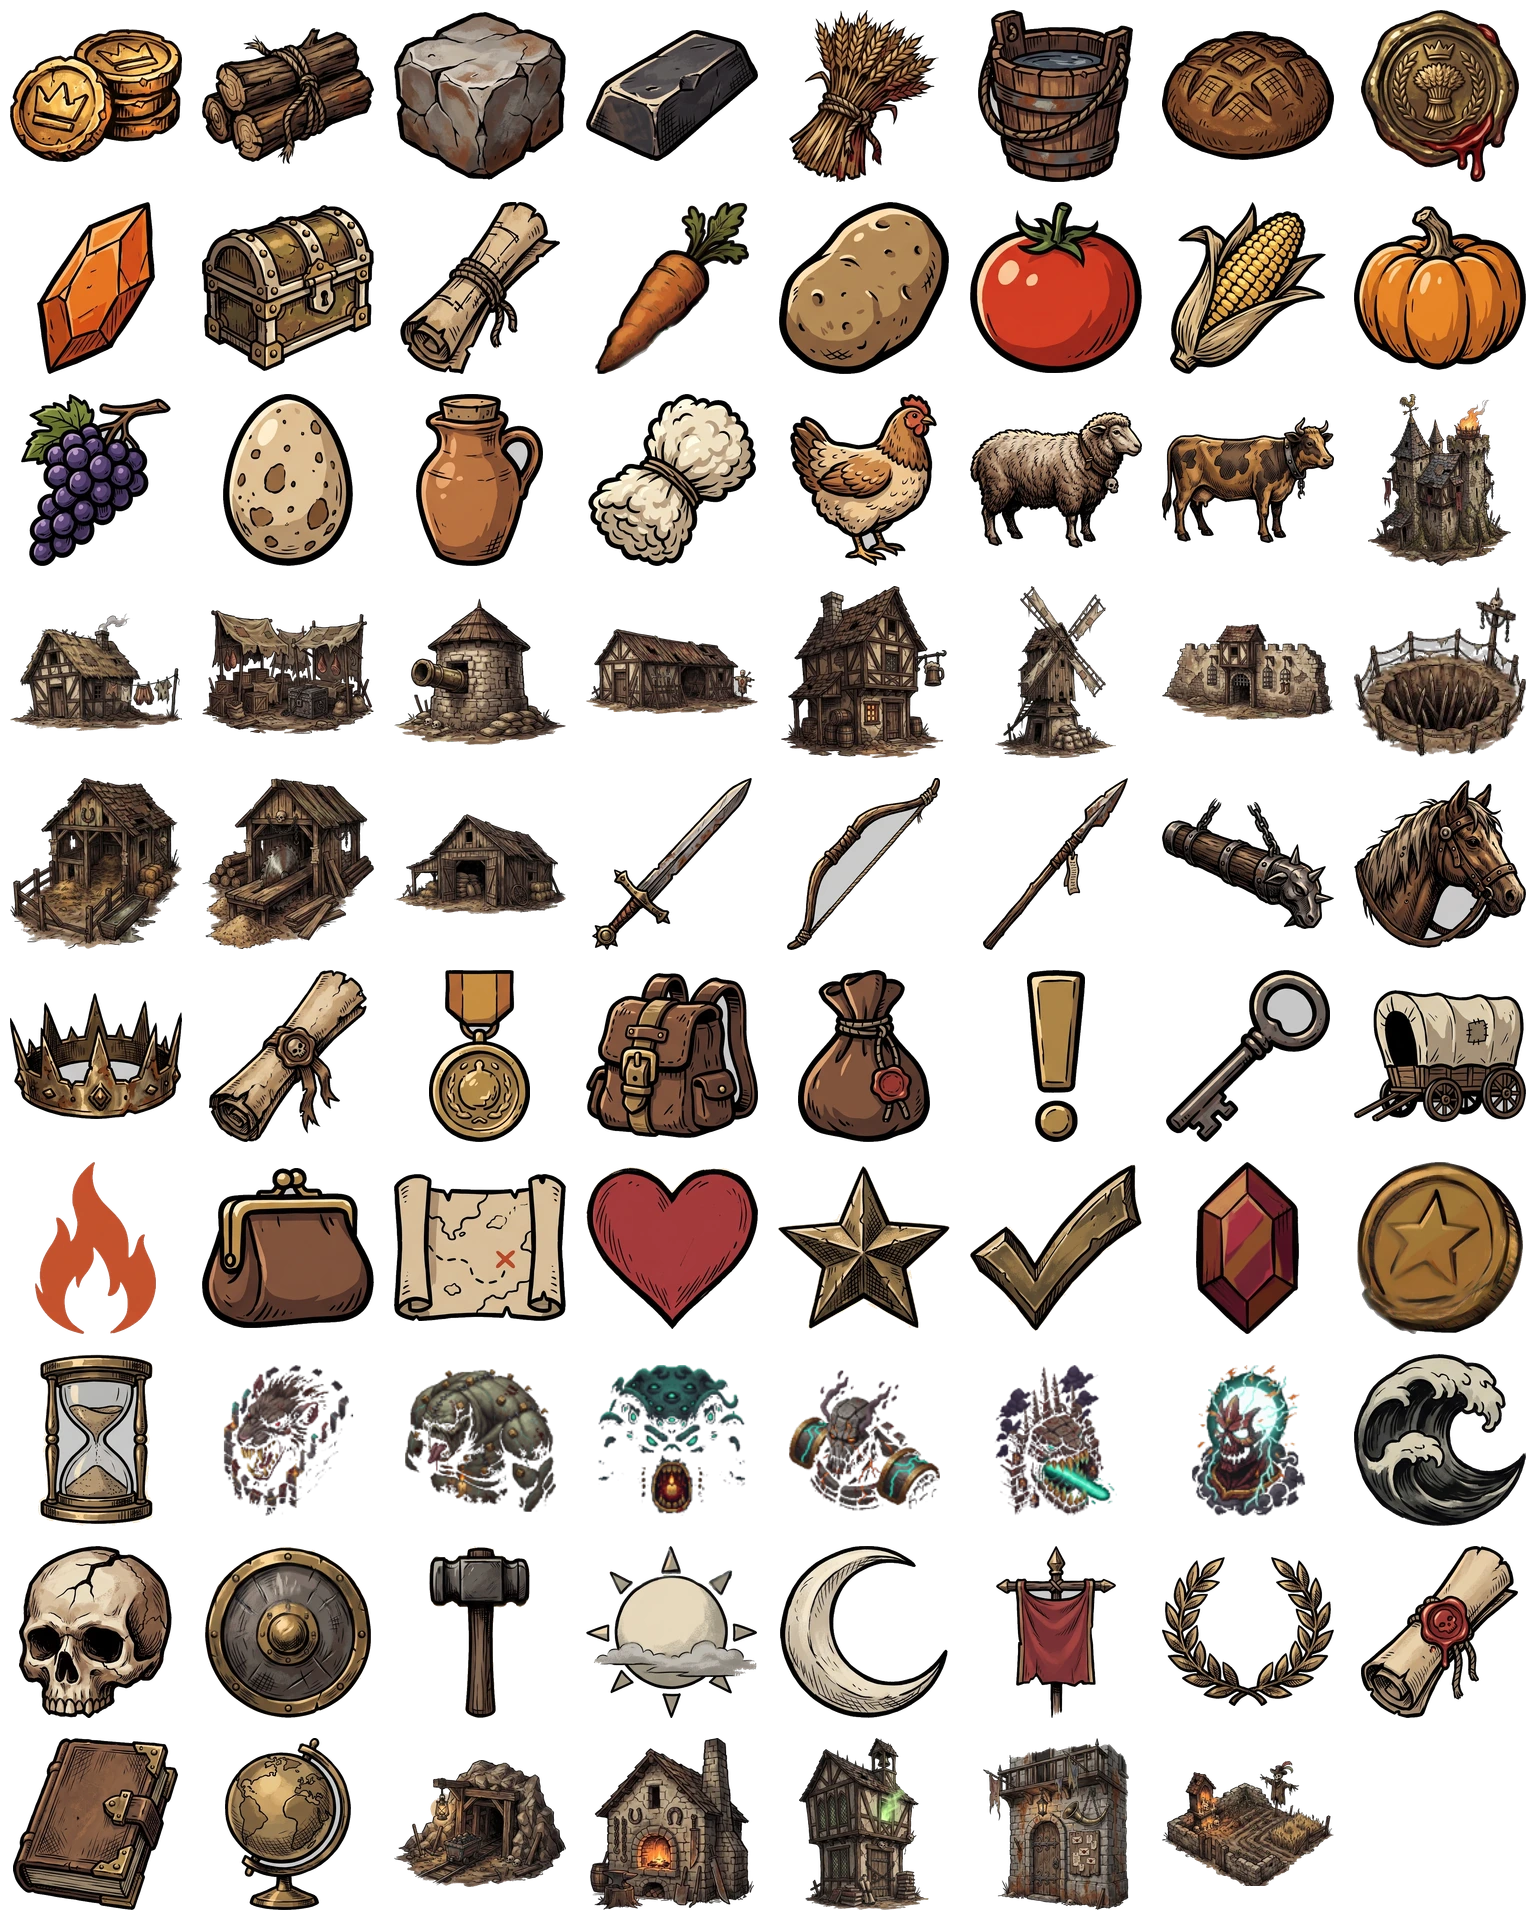
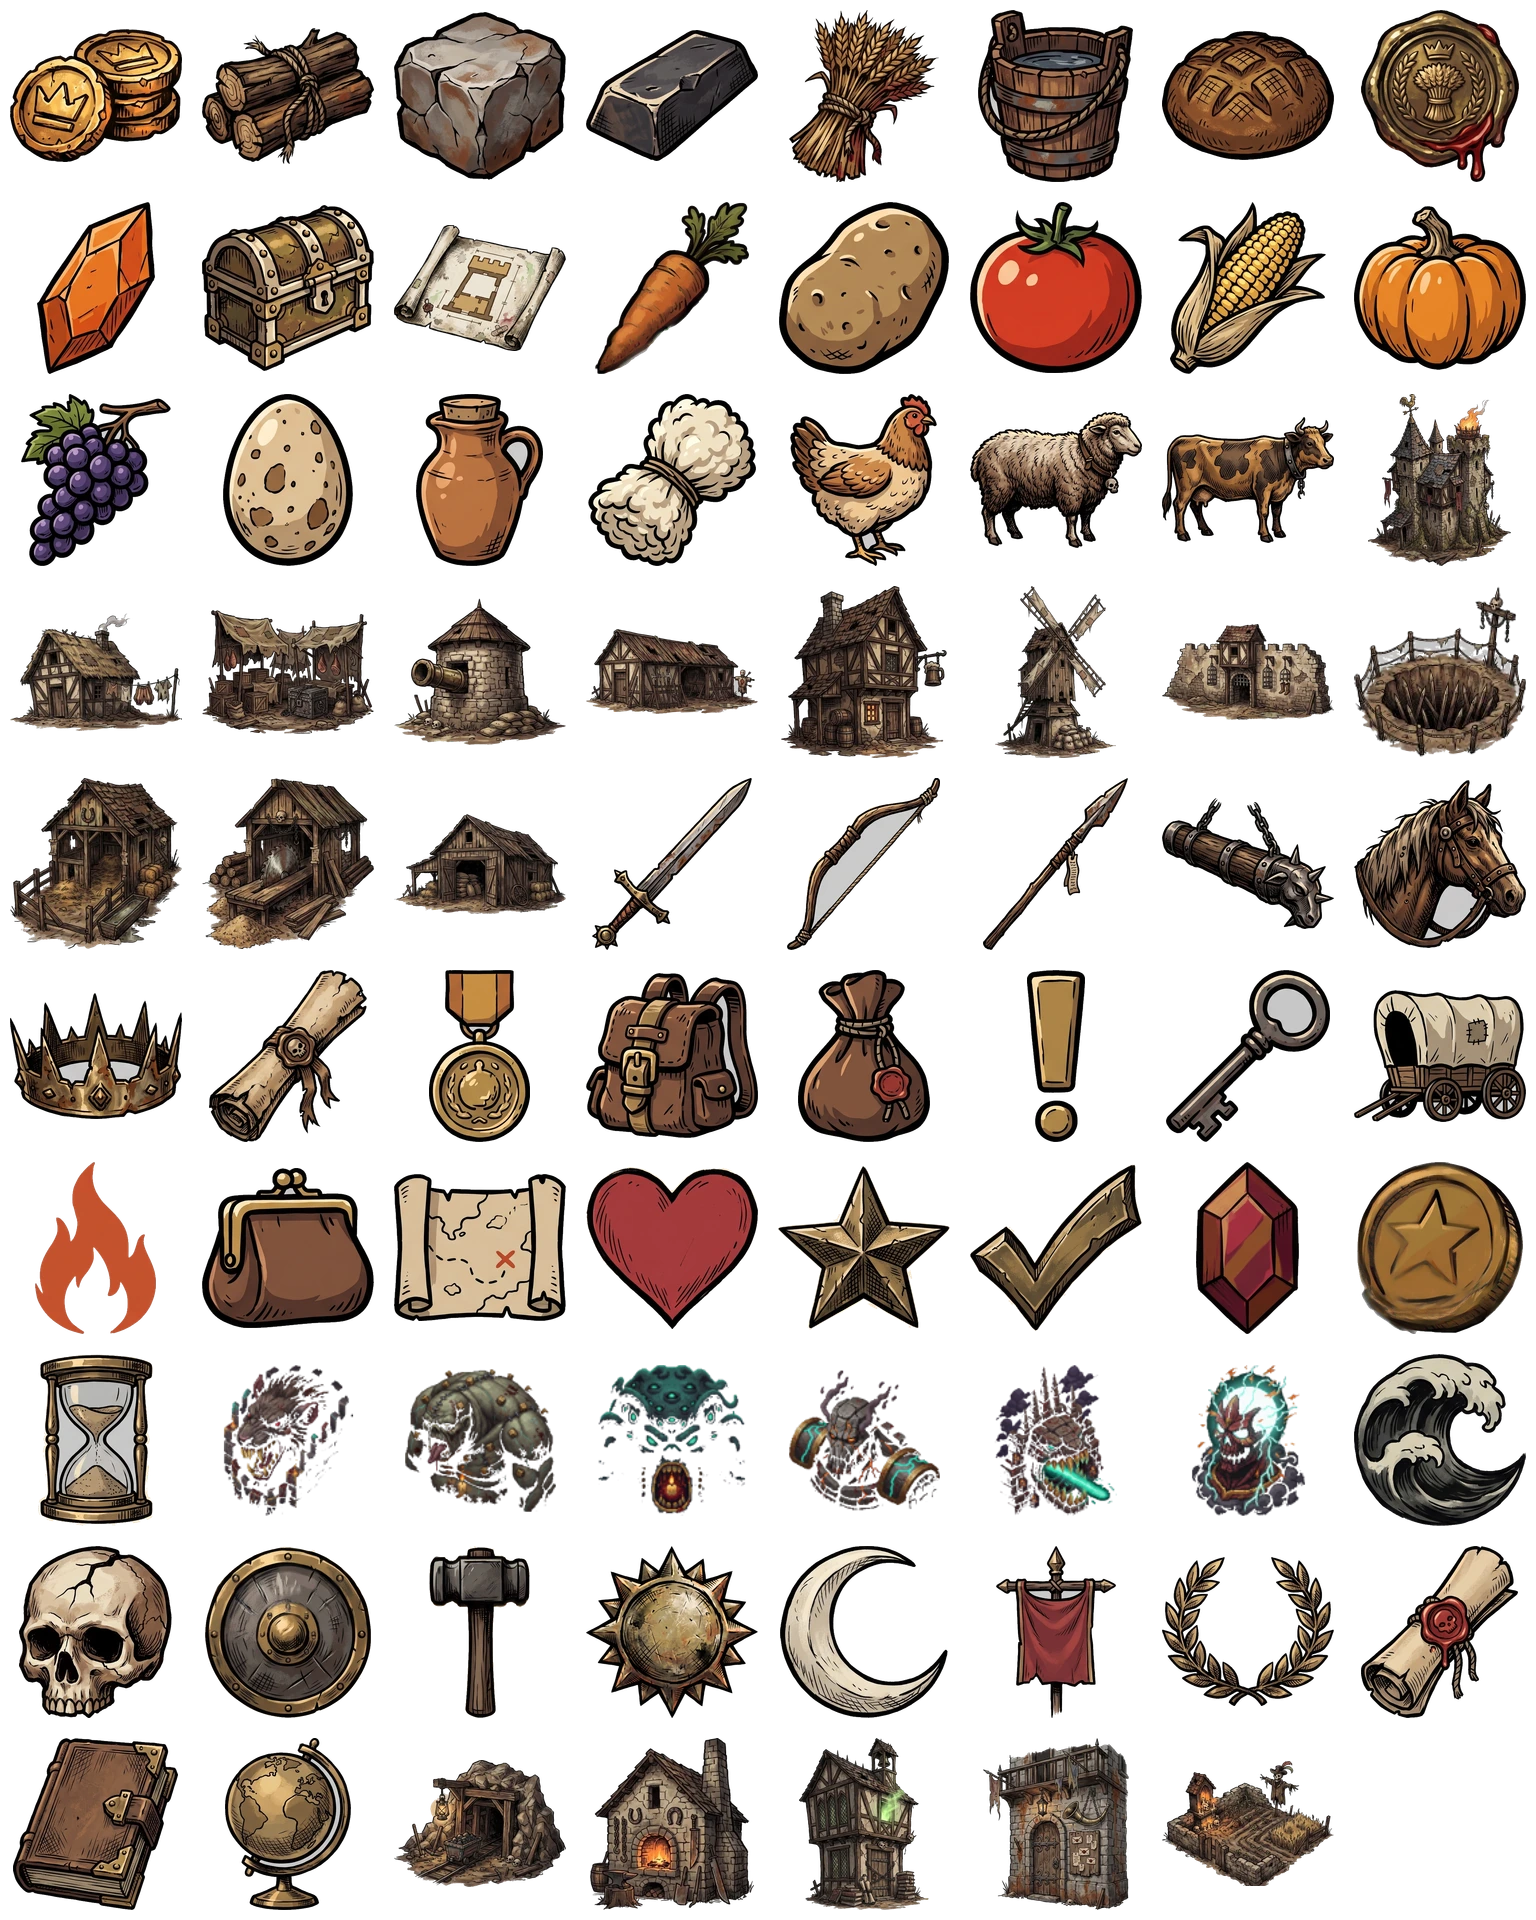
fix(ui_kit_b): regenerar íconos blueprint y sun (T22)

Changed region(s): [[0.25, 0.0938, 0.375, 0.2188], [0.375, 0.8125, 0.5, 0.9062]]

diff --git a/scripts/process_icon_sheets.js b/scripts/process_icon_sheets.js
@@ -4,6 +4,7 @@
  * pasa a celdas transparentes de 192 px (llave de color por flood-fill desde el borde de cada celda).
  *
  *   node scripts/process_icon_sheets.js [--tol 44] [--glyph 172]
+ *   node scripts/process_icon_sheets.js --single <nombre> <art-b/uikit/raw/x.png>   (un objeto por imagen)
  *
  * Lee  art-b/uikit/icon_sheets.json  { sheets: {id: [9 nombres|null]}, reuse: {id: {nombre: celda1..9}} }
  *      art-b/uikit/raw/<id>.png        (crudos, ignorados por git)
@@ -90,9 +91,9 @@ function cutout(data, w, h) {
   };
 }
 
-async function processCell(file, col, row, name, report) {
+async function processCell(file, col, row, name, report, div = 3) {
   const meta = await sharp(file).metadata();
-  const cw = Math.floor(meta.width / 3), ch = Math.floor(meta.height / 3);
+  const cw = Math.floor(meta.width / div), ch = Math.floor(meta.height / div);
   const { data, info } = await sharp(file).extract({ left: col * cw, top: row * ch, width: cw, height: ch })
     .ensureAlpha().raw().toBuffer({ resolveWithObject: true });
   const r = cutout(data, info.width, info.height);
@@ -109,6 +110,16 @@ async function processCell(file, col, row, name, report) {
 
 (async () => {
   fs.mkdirSync(OUT, { recursive: true });
+  const si = process.argv.indexOf('--single');
+  if (si > 0) {
+    // Un solo objeto por imagen (gen_art_b --kind prop): toda la imagen es la «celda».
+    // No toca las demás celdas ni report.json.
+    const name = process.argv[si + 1], file = path.resolve(ROOT, process.argv[si + 2]);
+    const report = {};
+    await processCell(file, 0, 0, name, report, 1);
+    console.log(JSON.stringify(report[name]));
+    return;
+  }
   const cfg = JSON.parse(fs.readFileSync(path.join(UIKIT, 'icon_sheets.json'), 'utf8'));
   const report = {};
   for (const [id, names] of Object.entries(cfg.sheets)) {

diff --git a/scripts/icon_contact_sheet.js b/scripts/icon_contact_sheet.js
@@ -5,7 +5,7 @@
  *
  *   node scripts/icon_contact_sheet.js [--sheet client/public/assets/b/ui/icons.webp]
  *        [--config art-b/uikit/candidate/grimIconSheet.generated.js]
- *        [--out specs/ui_kit_b/evidencia/iconos_contacto.webp] [--cols 6]
+ *        [--out specs/ui_kit_b/evidencia/iconos_contacto.webp] [--cols 6] [--only nombre1,nombre2]
  *
  * Requiere NODE_PATH al node_modules con playwright y sharp (repo principal).
  * El config se lee como texto (es ESM generado); no se importa.
@@ -29,7 +29,9 @@ const SIZES = [24, 32, 48];
   const cfg = fs.readFileSync(CONFIG, 'utf8');
   const num = (k) => Number(new RegExp(`${k} = (\\d+)`).exec(cfg)[1]);
   const W = num('GRIM_SHEET_W'), H = num('GRIM_SHEET_H'), CELL = num('GRIM_CELL');
-  const icons = [...cfg.matchAll(/^\s+([a-z_]+): \{ col: (\d+), row: (\d+) \},/gm)].map((m) => ({ name: m[1], col: +m[2], row: +m[3] }));
+  const only = arg('only', null);
+  const icons = [...cfg.matchAll(/^\s+([a-z_]+): \{ col: (\d+), row: (\d+) \},/gm)].map((m) => ({ name: m[1], col: +m[2], row: +m[3] }))
+    .filter((ic) => !only || only.split(',').includes(ic.name));
   const url = pathToFileURL(SHEET).href;
   const cell = (ic, s) => `<span class="i" style="width:${s}px;height:${s}px;background:url(${url}) ${-ic.col * s}px ${-ic.row * s}px/${(W / CELL) * s}px ${(H / CELL) * s}px no-repeat"></span>`;
   const figs = icons.map((ic) => `<figure><div class="r">${SIZES.map((s) => cell(ic, s)).join('')}</div><figcaption>${ic.name}</figcaption></figure>`).join('');

diff --git a/specs/ui_kit_b/tasks.md b/specs/ui_kit_b/tasks.md
@@ -35,7 +35,7 @@
 - [x] T19 — `scripts/crop_building_icons.js`: recorte de 17 edificios desde `assets/b/buildings/*.webp` a celdas de 192 px. Cubre: R41. Evidencia: 17 recortes a 192 px (`evidencia/crop_edificios.txt`); `manifest.json` sin entradas de edificios (grep `castle|throne_room` = 0).
 - [x] T20 — Entradas en `art-b/uikit/manifest.json` (plantilla `icon_test_b_bold` + reglas §6.1), generación con `scripts/gen_art_b.js` y proceso por grilla/llave de color; reaprovechar las hojas de prueba si cumplen. **Requiere autorización del owner y `GEMINI_API_KEY` (design §11-Q4).** Cubre: R44, R45. Evidencia: 6 hojas `icon_b_01..06` generadas con `gen_art_b.js` (54 celdas) + reaprovechadas de `icon_test_b_bold` (gold, wheat, wood, stone, kh_token); `scripts/process_icon_sheets.js` + `art-b/uikit/icon_sheets.json`; QA numérico en `evidencia/process_iconos.txt` (1 aviso: `sun`, 8 componentes por rayos sueltos). Falta el visto bueno visual de p-kh (T22).
 - [x] T21 — Reescribir `scripts/assemble_icon_sheet.js` (celda 192, 8 columnas, salida `client/public/assets/b/ui/icons.webp` + `grimIconSheet.generated.js` candidato **fuera** de `client/src/config` hasta la aprobación) y generar `evidencia/iconos_contacto.webp` (24/32/48 px sobre `kh-oak`). Cubre: R38, R42. Evidencia: `client/public/assets/b/ui/icons.webp` 1536×1920 (79 íconos, 8 col × 10 filas, 892 KB) + candidato `art-b/uikit/candidate/grimIconSheet.generated.js` (orden de los 65 contrato idéntico a `ab85126`; `client/src/config` NO tocado, R43) (`evidencia/assemble.txt`); `evidencia/iconos_contacto.webp` 924×1260 vía `scripts/icon_contact_sheet.js` (`evidencia/contacto.txt`).
-- [ ] T22 — ⏸ **Puerta de arte p-kh**: revisar `iconos_contacto.webp` y registrar `evidencia/aprobacion_arte.md` (fecha, autor `p-kh`, veredicto `APROBADO`, lista de regeneraciones si no). Sin esto no se pasa a C2. Cubre: R43, R44. Estado: 1.ª revisión 2026-10-21 → `REGENERAR` `blueprint` y `sun` (los 77 restantes aprobados; condición de uso: edificios ≥ 40 px con nombre), ver `evidencia/aprobacion_arte.md`.
+- [ ] T22 — ⏸ **Puerta de arte p-kh**: revisar `iconos_contacto.webp` y registrar `evidencia/aprobacion_arte.md` (fecha, autor `p-kh`, veredicto `APROBADO`, lista de regeneraciones si no). Sin esto no se pasa a C2. Cubre: R43, R44. Estado: 1.ª revisión 2026-10-21 → `REGENERAR` `blueprint` y `sun` (los 77 restantes aprobados; condición de uso: edificios ≥ 40 px con nombre), ver `evidencia/aprobacion_arte.md`. Regenerados `blueprint` y `sun` (2 llamadas `gen_art_b.js --kind prop`, ≈0,28 USD; 2 de 4 permitidas): 1 componente cada uno, esquinas y borde con alfa 0, las otras 77 celdas intactas salvo ruido de recompresión webp (`evidencia/regen_verificacion.txt`); comparativa en `evidencia/iconos_regen.webp`. Pendiente: 2.ª revisión de p-kh.
 
 ### C2 — Integración
 
